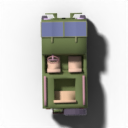
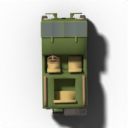
fix: Russian jeep renders as an open-top UAZ-469, China jeep olive
Swap the Russian Jeep's model for "UAZ-469 Low Poly" by lebedeventerprise
(CC-BY 4.0), top folded down, its recoilless rifle and machine gun removed,
repainted olive, so it reads as a light 4x4 from above instead of a closed
van. Re-tint the China jeep from a purple cast to a neutral olive.
render-sprite.py: a tint override on an untextured material sets its flat
base colour.

Closes #344

Claude-Session: https://claude.ai/code/session_013cBuozthfCTkoazWP7Njtz

diff --git a/scripts/render-sprite.py b/scripts/render-sprite.py
@@ -111,22 +111,27 @@ def tint_paint(color: list[float], skip: list[str], overrides: dict[str, dict]) 
 
     `skip` keeps materials whose name starts with an entry. `overrides` gives a material (by name prefix) its own
     `color` and, optionally, `specular` (Principled "Specular IOR Level"), for a part that renders lighter than
-    the rest: a pale texture, or flat tops mirroring the sky.
+    the rest: a pale texture, or flat tops mirroring the sky. An override on an untextured material (a flat base
+    colour) sets that colour instead, for a low-poly model painted in plain colours.
     """
     for mat in bpy.data.materials:
         tree = mat.node_tree
         bsdf = tree.nodes.get("Principled BSDF") if tree else None
-        if not bsdf or not bsdf.inputs["Base Color"].links or any(mat.name.startswith(s) for s in skip):
+        if not bsdf or any(mat.name.startswith(s) for s in skip):
+            continue
+        own = next((o for prefix, o in overrides.items() if mat.name.startswith(prefix)), {})
+        if "specular" in own:
+            bsdf.inputs["Specular IOR Level"].default_value = own["specular"]
+        if not bsdf.inputs["Base Color"].links:
+            if "color" in own:
+                bsdf.inputs["Base Color"].default_value = (*own["color"], 1.0)
             continue
         link = bsdf.inputs["Base Color"].links[0]
         mix = tree.nodes.new("ShaderNodeMix")
         mix.data_type = "RGBA"
         mix.blend_type = "MULTIPLY"
         mix.inputs["Factor"].default_value = 1.0
-        own = next((o for prefix, o in overrides.items() if mat.name.startswith(prefix)), {})
         mix.inputs["B"].default_value = (*own.get("color", color), 1.0)
-        if "specular" in own:
-            bsdf.inputs["Specular IOR Level"].default_value = own["specular"]
         tree.links.new(link.from_socket, mix.inputs["A"])
         tree.links.new(mix.outputs["Result"], bsdf.inputs["Base Color"])
 

diff --git a/docs/assets.md b/docs/assets.md
@@ -129,7 +129,7 @@ Three packs hold the art-style spike: top-down renders of two CC-BY Sketchfab mo
 | `render-russia-cannon/` | "ZiS-2 57mm anti-tank gun" by sergey.s.filin, CC-BY-4.0 | `scripts/render-sprite.py` |
 | `render-russia-mortar/` | "Pindad Mortars" by sakigakefuruzawa, CC-BY-4.0 | `scripts/render-sprite.py` |
 | `render-russia-infantry/` | "Tactical Soldier (game ready) low poly" by MissingTray1151, CC-BY-4.0 | `scripts/render-sprite.py` |
-| `render-russia-jeep/` | "uaz 469" by Okopchi, CC-BY-4.0 | `scripts/render-sprite.py` |
+| `render-russia-jeep/` | "UAZ-469 Low Poly" by lebedeventerprise, CC-BY-4.0 | `scripts/render-sprite.py` |
 | `render-russia-helicopter/` | "Mi-8" by tiunov.se, CC-BY-4.0 | `scripts/render-sprite.py` |
 | `render-china-rifle-nest/` | "Tactical Soldier (game ready) low poly" by MissingTray1151, CC-BY-4.0 | `scripts/render-sprite.py` |
 | `render-china-cannon/` | "Anti-Tank Guided Missile" by Alhimix, CC-BY-4.0 | `scripts/render-sprite.py` |

diff --git a/CREDITS.md b/CREDITS.md
@@ -173,13 +173,13 @@ Third-party assets in this game. Generated from `assets/manifest.json` by `npm r
 - Downloaded: 2026-11-02
 - Files: `assets/render-russia-mortar/**`
 
-## uaz 469 (top-down render)
+## UAZ-469 Low Poly (top-down render)
 
-- Author: Okopchi
-- Source: <https://sketchfab.com/3d-models/1f58a38deb854829bd1b1ba1c15555d0>
+- Author: lebedeventerprise
+- Source: <https://sketchfab.com/3d-models/77bdfa6804334b2794e65654e9dd8f3a>
 - License: CC-BY-4.0
-- Attribution: "uaz 469" by Okopchi (sketchfab.com), CC-BY 4.0, rendered top-down
-- Downloaded: 2026-11-02
+- Attribution: "UAZ-469 Low Poly" by lebedeventerprise (sketchfab.com), CC-BY 4.0, rendered top-down, its recoilless rifle and machine gun removed, repainted olive
+- Downloaded: 2026-11-03
 - Files: `assets/render-russia-jeep/**`
 
 ## Mi-8 (top-down render)
